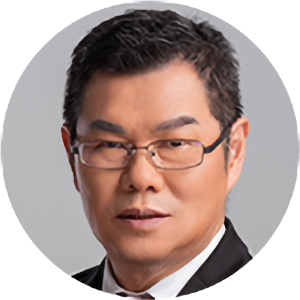
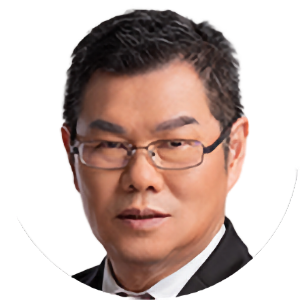
Update council member images and navigation styling

Changed region(s): [[0.0, 0.0, 1.0, 0.93]]

diff --git a/src/components/nav.tsx b/src/components/nav.tsx
@@ -44,15 +44,17 @@ export default function Nav() {
 					})}
 				</div>
 
+				<div className="pointer-events-none absolute inset-x-0 top-0 block h-20 bg-background [mask:linear-gradient(to_top,transparent,black)] sm:hidden" />
+
 				<div className="container z-10">
 					<div className="flex items-center justify-between">
-						<div className="flex h-6 gap-1 sm:h-8 sm:gap-1">
-							<MyFlag className="h-full" />
+						<div className="flex h-7 gap-1 sm:h-8 sm:gap-1">
+							<MyFlag className="hidden h-full sm:block" />
 							<LogoText className="h-full" />
 							<span className="sr-only">{siteTitle}</span>
 						</div>
 
-						<ul className="flex h-8 items-center gap-0 rounded-full bg-card/50 p-1 text-xs font-medium !leading-none tracking-tight ring-1 ring-foreground/[7%] backdrop-blur sm:h-9 sm:text-sm">
+						<ul className="flex h-8 items-center gap-0 rounded-full p-1 text-xs font-medium !leading-none tracking-tight ring-foreground/[7%] sm:h-9 sm:bg-card/50 sm:text-sm sm:ring-1 sm:backdrop-blur">
 							{links.map((link) => (
 								<li key={link.id} className="h-full">
 									<a

diff --git a/src/app/(home)/sections/council.tsx b/src/app/(home)/sections/council.tsx
@@ -66,12 +66,12 @@ function Member({ member }: { member: Member }) {
 			)}
 		>
 			<div>
-				<div className="inline-block overflow-hidden rounded-full bg-gray-400">
+				<div className="inline-block rounded-full p-1.5 ring-1 ring-foreground/20">
 					<img
 						src={member.image}
 						alt={member.name}
 						className={cn(
-							'block aspect-square size-20 scale-110',
+							'block aspect-square size-20 scale-110 rounded-full bg-foreground/20',
 							member.position === 'Council Member' && 'size-16'
 						)}
 					/>
@@ -110,7 +110,7 @@ const members: Member[] = [
 		name: 'Ng Ay Na',
 		position: 'Chairman',
 		company: 'Goodsound Music Publishing Sdn Bhd',
-		image: '/images/council/ng-ay-na.png',
+		image: '/images/council/ng-ay-na-3.png',
 	},
 	{
 		name: 'Jennifah Johari',

diff --git a/src/styles/colors.ts b/src/styles/colors.ts
@@ -1,3 +1,3 @@
 export const hue = -4;
-export const bgLight = `${hue} 12% 95%`;
+export const bgLight = `${hue} 12% 94%`;
 export const bgDark = `${hue} 5% 5%`;
